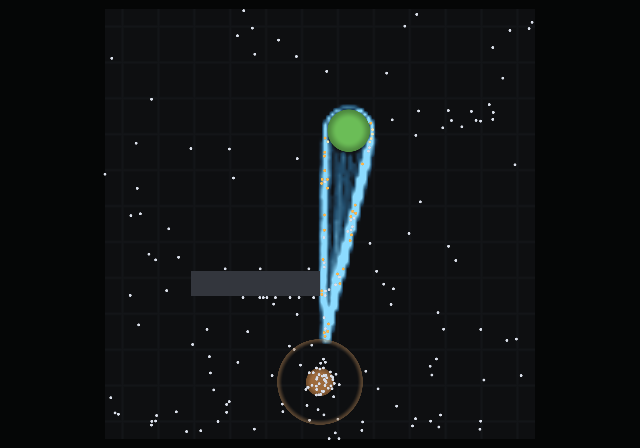
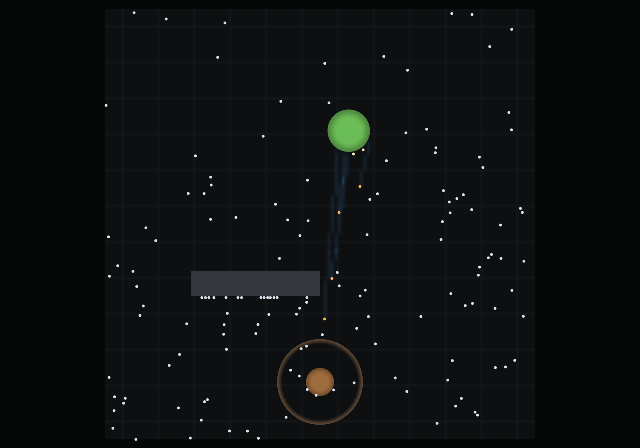
Take the "searching" frame before any trail exists
At three minutes the arena already carried a trail total of 27989, which
blunted the whole point of the picture: it is meant to show the colony
with *no* pheromone, where the choice function degenerates exactly into
the correlated random walk of 3.2 and every ant is searching. Next to
the established route it was a difference of degree rather than of kind.

Forty seconds instead: trail total 753, essentially bare ground. One
faint thread runs from the food to the nest -- the first ant home, laying
the first pheromone -- and everything in the later frames grew from it.
Caption rewritten to point at that rather than at the absence.

diff --git a/README.md b/README.md
@@ -40,9 +40,11 @@ entrance.
 *The nest disc, its arrival radius as a faint ring, and the resting cluster the
 collision rule packs around the entrance.*
 
-Early on, before any trail exists, the colony looks completely different — every
-ant searching, the choice function degenerating exactly into a random walk
-because there is no pheromone for it to read:
+Forty seconds in, the same colony looks nothing like this. No trail exists yet,
+so there is nothing for the choice function to read, and it degenerates
+*exactly* into a correlated random walk — every ant searching, the arena bare.
+Look closely and one faint thread runs from the food to the nest: the first ant
+home, laying the first pheromone. Everything above grew from that.
 
 ![Searching, before a trail exists](docs/images/01-searching.png)
 
